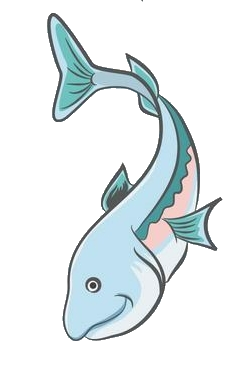
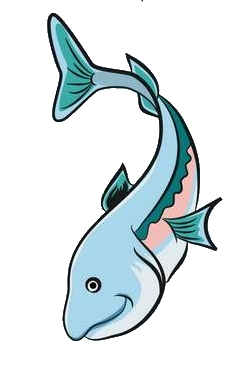
Salmy image with cloud; added eventListener for Enter, removed button.

Changed region(s): [[0.1787, 0.0301, 0.9532, 0.9317], [0.3574, 0.7514, 0.4468, 0.8115]]

diff --git a/javascript.js b/javascript.js
@@ -1,0 +1,47 @@
+// Add a new task
+function AddNewTask() {
+    var GivenObjectTask = document.getElementById("NewTask");
+    var NewTask = GivenObjectTask.value;
+    var NewTask = NewTask.trimRight();
+    var NewTask = " " + NewTask.trimStart();
+
+    if (NewTask.length > 3) {
+      if (!(document.getElementById(NewTask))) {
+        var Box = document.createElement("INPUT");
+        Box.id = NewTask;
+        Box.type = "checkbox";
+
+        var Label = document.createElement("LABEL");
+        var TextNode = NewTask
+        var TextNode = document.createTextNode(TextNode)
+        Label.htmlFor = NewTask;
+        Label.appendChild(TextNode)
+
+        var paragraph = document.createElement("P");
+        paragraph.appendChild(Box);
+        paragraph.appendChild(Label)
+
+        document.getElementById("list_tasks").appendChild(paragraph);
+        StoreTask(NewTask);
+      }
+    } else {
+      window.alert("The task should be at least 3 characters long!")
+    }
+};
+// save in localStorage the NewTask just appended by the previous function
+function StoreTask(NewTask) {
+  console.log("temporary function")
+}
+
+
+// ONLOAD restore the previously added tasks
+
+// eventListener for pressing Enter while writing on the input box
+
+
+
+/*  - add eventListener to check when you press Enter, and then run the button
+    - use Salmy to communicate that the NewTask is invalid instead of opening a popup
+    - localStorage setting to keep the boxinos
+    -
+*/

diff --git a/TynyList.html b/TynyList.html
@@ -4,27 +4,51 @@
     <meta charset="utf-8">
     <meta name="viewport" content="width=device-width, initial-scale=1.0">
     <title>Tiny to-do list</title>
+    <link rel="icon" href="salmy/salmy-left.png" type="image/icon type">
     <link rel="stylesheet" href="styles.css">
+    <script type="text/javascript" src="javascript.js"> </script>
   </head>
+
   <body>
-    <div class="title">
-      <h1> One task at a time </h1>
+<div class="Centered">
+
+
+    <div class="Title">
+      <h1> One-task with Salmy </h1>
+    </div>
+
+  <div class="Buttons">
+    <input type="text" id="NewTask">
+    <div class="Cloud">
+        <img src="salmy/cloud.png">
+    </div>
+    <div class="Salmy">
+      <img src="salmy/salmy-up.png">
     </div>
 
 
+  </div>
 
-<div class="input">
+    <div id="list_tasks">
+
+    </div>
 
 </div>
 
 
-
-
-
-
-
-
-
+<!--  - integrate Salmy
+      - hide every task but the first one; eliminate completed tasks
+      -
+      -
+-->
+<script type="text/javascript">
+  // eventListener for pressing Enter while writing on the input box
+  document.getElementById("NewTask").addEventListener("keydown", function(event) {
+    if (event.key === "Enter") {
+      AddNewTask()
+    }
+  });
+</script>
 
   </body>
 </html>

diff --git a/styles.css b/styles.css
@@ -1,14 +1,38 @@
 body {
   background-color: rgb(255,150,100,0.2);
+  position: absolute;
+  left:50%;
+}
+.Centered {
+  position: relative;
+  left: -50%;
 }
 
-.title {
+.Title {
   width: 45vw;
   margin: auto;
 }
-.title h1 {
+.Title h1 {
   text-align: center;
   padding: 3vw;
   background-color: rgb(255,150,100,0.43);
   border-radius: 18px;
+}
+#list_tasks input {
+  transform: scale(1.6);
+}
+.Buttons {
+  text-align: center;
+}
+.Salmy img {
+  width: 70px;
+  position: relative;
+  top: -85px;
+  right: -142px;
+}
+.Cloud img {
+  width: 110px;
+  position: relative;
+  top: -55px;
+  right: -120px;
 }
